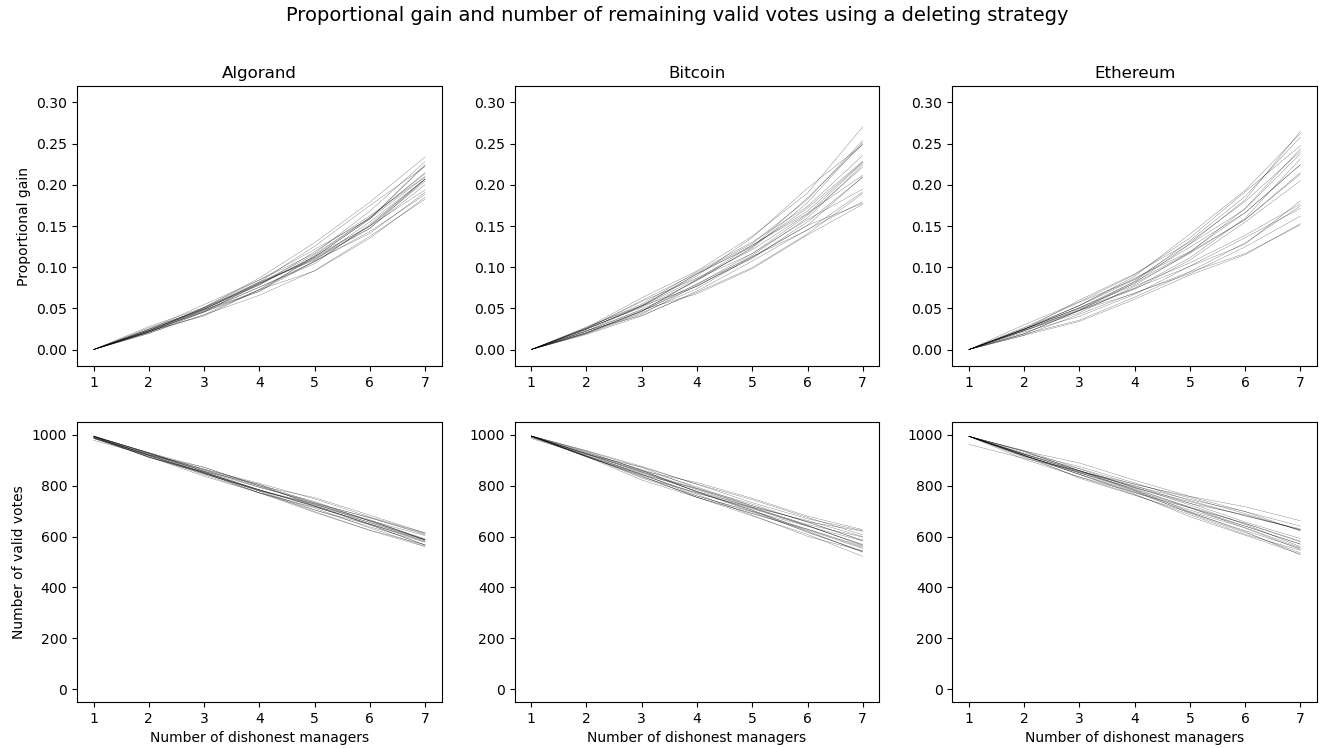
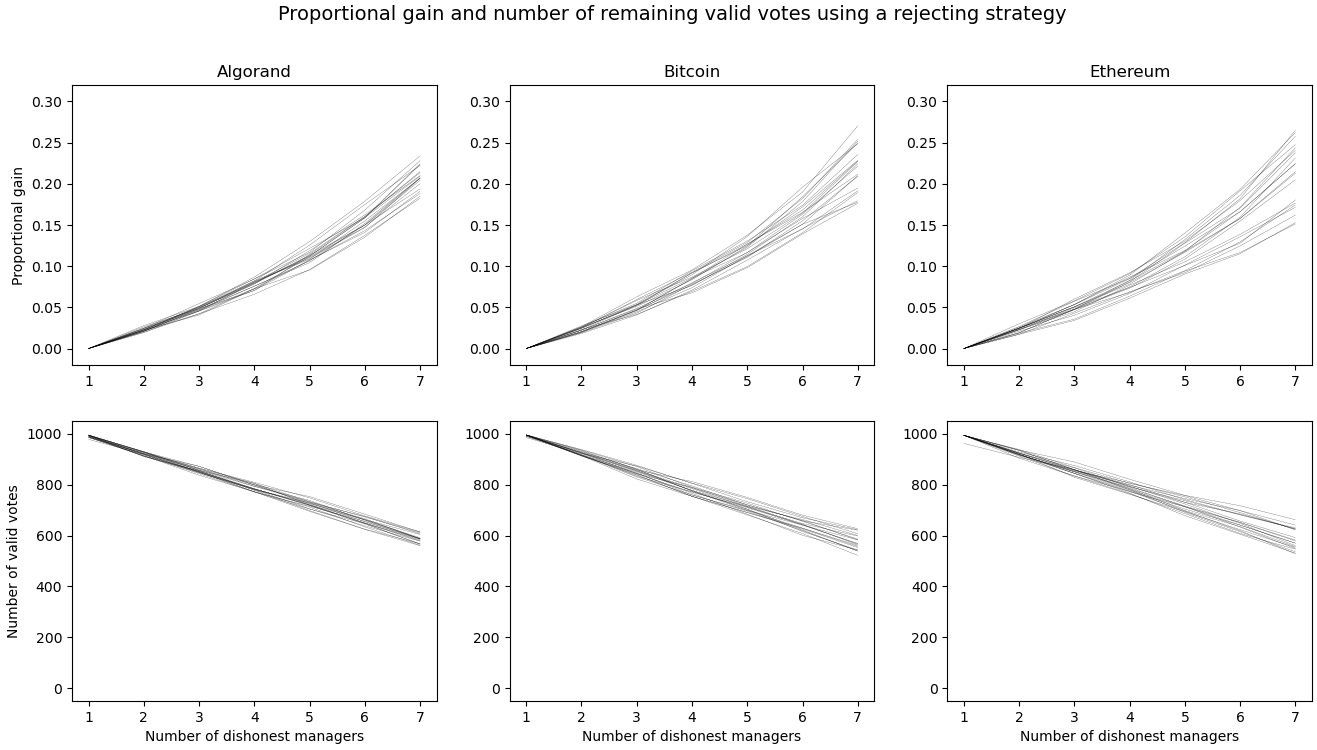
editing rejecter plot

diff --git a/charts/plotters/rej-plotter.py b/charts/plotters/rej-plotter.py
@@ -50,6 +50,6 @@ axes[1,0].set_xlabel("Number of dishonest managers")
 axes[1,1].set_xlabel("Number of dishonest managers")
 axes[1,2].set_xlabel("Number of dishonest managers")
 
-fig.suptitle("Proportional gain and number of remaining valid votes using a deleting strategy", fontsize=14)
+fig.suptitle("Proportional gain and number of remaining valid votes using a rejecting strategy", fontsize=14)
 
 plt.show()
